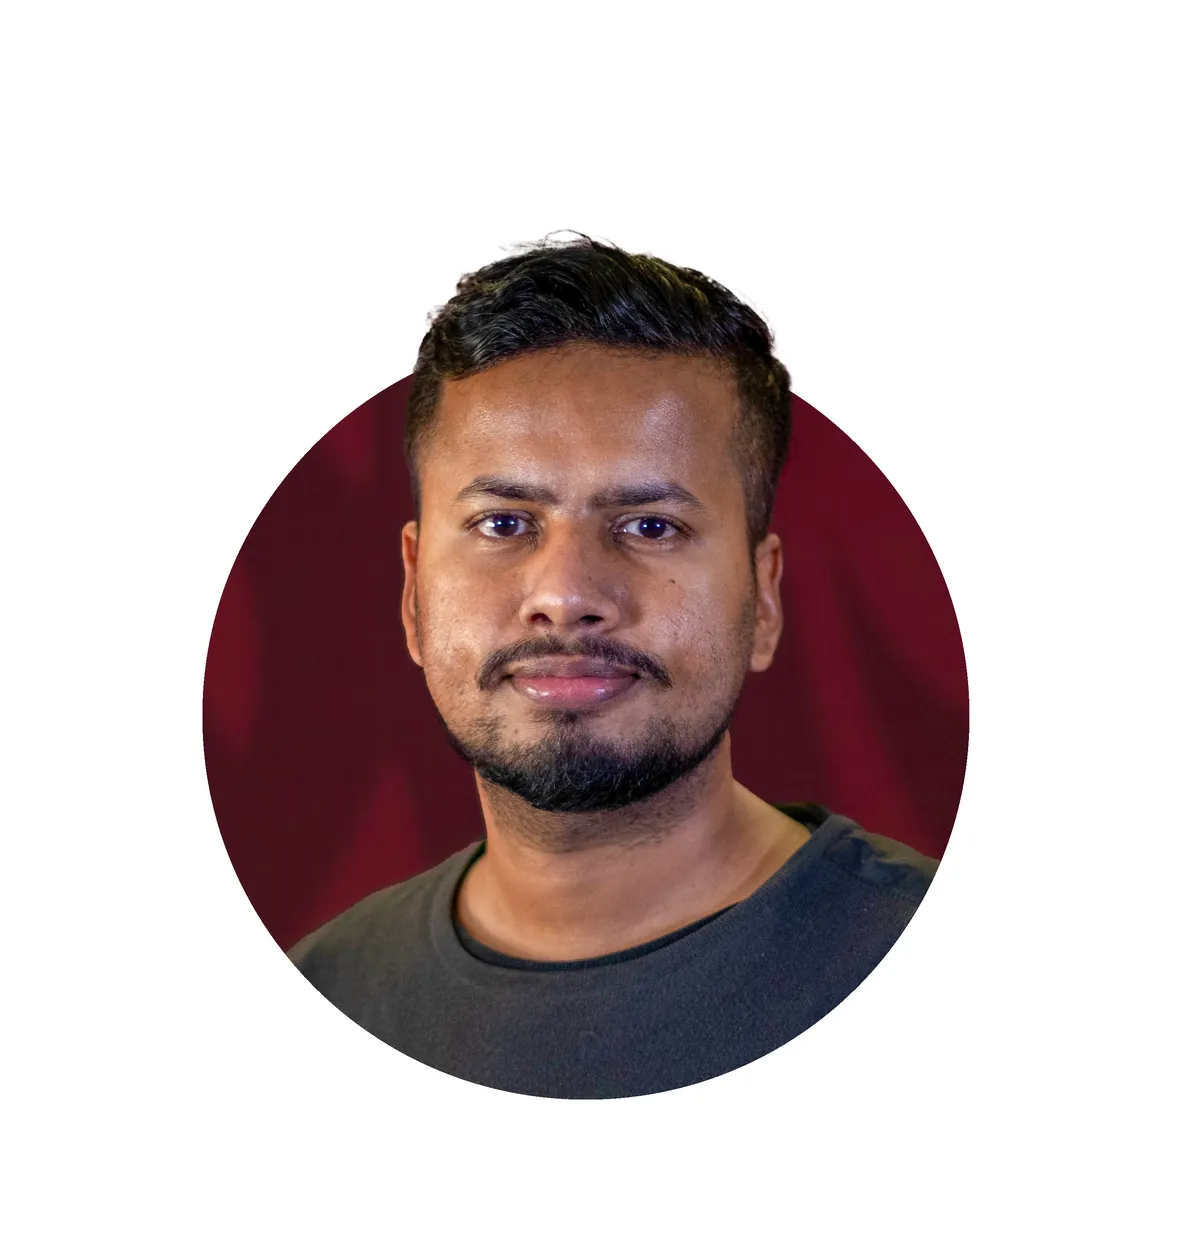
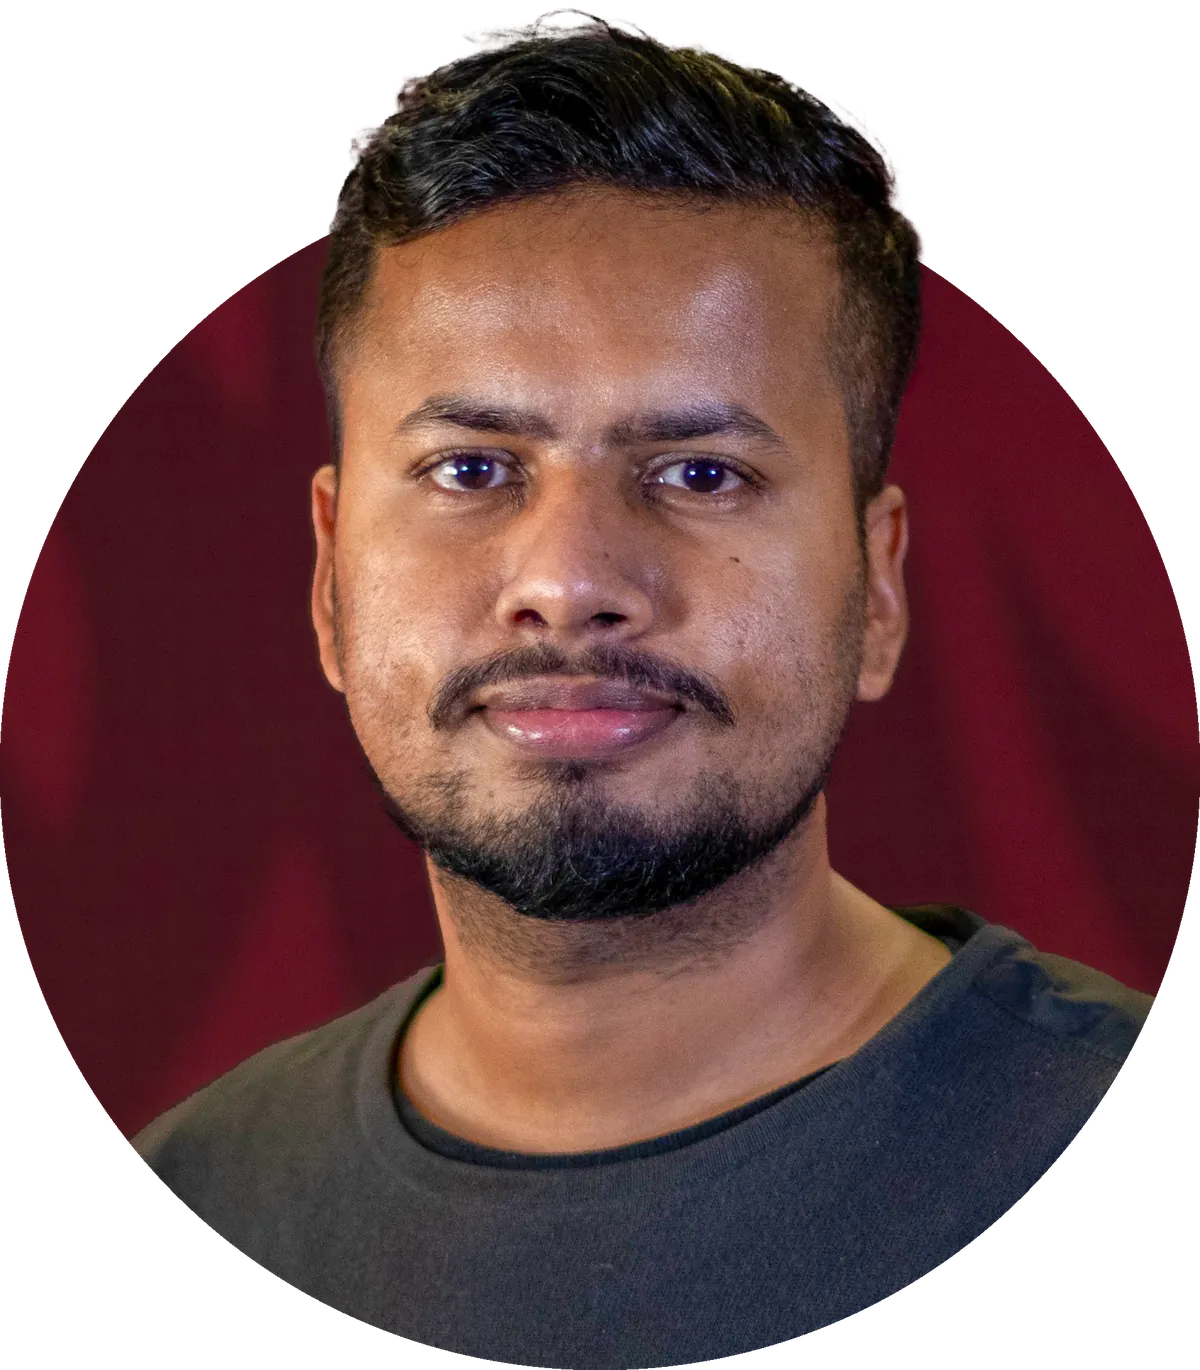
Transparent headshot and shorter team credits

diff --git a/docs/work/bussin-blocks/index.html b/docs/work/bussin-blocks/index.html
@@ -28,7 +28,7 @@
     <div class="hero-title"><p class="eyebrow">05 / 05</p><h1>The Bussin Blocks</h1><p>Connecting city and neighborhood through a loop walk</p></div>
   </header>
   <section class="project-intro">
-    <dl class="meta"><div><dt>Type</dt><dd>Adaptive reuse and urban design</dd></div><div><dt>Location</dt><dd>Post Falls, ID</dd></div><div><dt>Year</dt><dd>2025</dd></div><div><dt>Context</dt><dd>Graduate studio, WSU</dd></div><div><dt>Role</dt><dd>Co-designer. Shared project concept and block-by-block design; form generation diagrams, AIA COTE Top Ten diagram and all D5 renders</dd></div><div><dt>Team</dt><dd>Maxwell T. Kyle (co-designer: site, demographic and history studies, housing and transportation user requirements, spatial program, regulatory review, Tally and scale estimates)</dd></div><div><dt>Tools</dt><dd>Revit, Rhino, D5 Render, AutoCAD, SketchUp, Photoshop, Illustrator, Tally, C.Scale</dd></div></dl>
+    <dl class="meta"><div><dt>Type</dt><dd>Adaptive reuse and urban design</dd></div><div><dt>Location</dt><dd>Post Falls, ID</dd></div><div><dt>Year</dt><dd>2025</dd></div><div><dt>Context</dt><dd>Graduate studio, WSU</dd></div><div><dt>Role</dt><dd>Co-designer. Shared project concept and block-by-block design; form generation diagrams, AIA COTE Top Ten diagram and all D5 renders</dd></div><div><dt>Team</dt><dd>Maxwell T. Kyle (co-designer)</dd></div><div><dt>Tools</dt><dd>Revit, Rhino, D5 Render, AutoCAD, SketchUp, Photoshop, Illustrator, Tally, C.Scale</dd></div></dl>
     <div class="intro-text"><p>The Bussin Blocks redevelop a 19-acre brownfield, a former veneer mill, into Post Falls&#x27; first walkable downtown. Surrounding streets extend into the site and set a block size small enough for real porosity.</p><p>A walking loop ties four nodes together: the preserved mill silo, the Centennial Trail, the neighborhood edge and a city gateway. Housing, a transit center in the reused mill structure, a museum, a hotel and a seasonal ice rink line the route.</p><div class="facts"><div class="fact"><span>Site</span><strong>19 acres</strong></div><div class="fact"><span>Strategy</span><strong>Adaptive reuse of mill structures</strong></div><div class="fact"><span>Framework</span><strong>AIA COTE Top Ten</strong></div></div></div>
   </section>
   <section class="chapter reveal"><div class="chapter-text"><h2>Concept</h2><p>Four nodes create the loop journey. Six steps take the site from reused structures and a continued street grid to courtyard blocks with heights tuned to orientation.</p></div><div class="chapter-figs"><figure class="zoom"><img class="" src="../../assets/img/bussin-blocks/concept-1200.webp" srcset="../../assets/img/bussin-blocks/concept-1200.webp 1200w, ../../assets/img/bussin-blocks/concept-2400.webp 2400w" sizes="(min-width: 1400px) 1400px, 100vw" width="3200" height="1600" alt="Nodes and form generation" loading="lazy" decoding="async"><figcaption>Nodes and form generation</figcaption></figure></div></section><section class="chapter reveal"><div class="chapter-text"><h2>Masterplan</h2></div><div class="chapter-figs"><figure class="zoom"><img class="" src="../../assets/img/bussin-blocks/masterplan-1200.webp" srcset="../../assets/img/bussin-blocks/masterplan-1200.webp 1200w, ../../assets/img/bussin-blocks/masterplan-2400.webp 2400w" sizes="(min-width: 1400px) 1400px, 100vw" width="3200" height="1600" alt="Masterplan axonometric" loading="lazy" decoding="async"><figcaption>Masterplan axonometric</figcaption></figure></div></section><section class="chapter reveal"><div class="chapter-text"><h2>Sustainability</h2><p>The mixed-use apartments are tested against the AIA COTE Top Ten: PV-ready roofs, rainwater collection, heat recovery DOAS, VRF heat pumps and rooftop beehives.</p></div><div class="chapter-figs"><figure class="zoom"><img class="" src="../../assets/img/bussin-blocks/cote-1200.webp" srcset="../../assets/img/bussin-blocks/cote-1200.webp 1200w, ../../assets/img/bussin-blocks/cote-2400.webp 2400w" sizes="(min-width: 1400px) 1400px, 100vw" width="3200" height="1600" alt="AIA COTE Top Ten measures" loading="lazy" decoding="async"><figcaption>AIA COTE Top Ten measures</figcaption></figure></div></section><section class="chapter reveal"><div class="chapter-text"><h2>Views</h2></div><div class="chapter-figs"><figure class="zoom"><img class="" src="../../assets/img/bussin-blocks/silo-boulevard-1200.webp" srcset="../../assets/img/bussin-blocks/silo-boulevard-1200.webp 1200w, ../../assets/img/bussin-blocks/silo-boulevard-2400.webp 2400w" sizes="(min-width: 1400px) 1400px, 100vw" width="3840" height="2160" alt="The Silo Boulevard" loading="lazy" decoding="async"><figcaption>The Silo Boulevard</figcaption></figure><figure class="zoom"><img class="" src="../../assets/img/bussin-blocks/idaho-road-entry-1200.webp" srcset="../../assets/img/bussin-blocks/idaho-road-entry-1200.webp 1200w, ../../assets/img/bussin-blocks/idaho-road-entry-2400.webp 2400w" sizes="(min-width: 1400px) 1400px, 100vw" width="3840" height="2160" alt="Idaho Road entry" loading="lazy" decoding="async"><figcaption>Idaho Road entry</figcaption></figure><figure class="zoom"><img class="" src="../../assets/img/bussin-blocks/boarding-zone-1200.webp" srcset="../../assets/img/bussin-blocks/boarding-zone-1200.webp 1200w, ../../assets/img/bussin-blocks/boarding-zone-2400.webp 2400w" sizes="(min-width: 1400px) 1400px, 100vw" width="3840" height="2160" alt="Transit center boarding zone in the reused mill frame" loading="lazy" decoding="async"><figcaption>Transit center boarding zone in the reused mill frame</figcaption></figure><figure class="zoom"><img class="" src="../../assets/img/bussin-blocks/waiting-hall-1200.webp" srcset="../../assets/img/bussin-blocks/waiting-hall-1200.webp 1200w, ../../assets/img/bussin-blocks/waiting-hall-2400.webp 2400w" sizes="(min-width: 1400px) 1400px, 100vw" width="3840" height="2160" alt="Transit center waiting hall" loading="lazy" decoding="async"><figcaption>Transit center waiting hall</figcaption></figure></div></section>

diff --git a/docs/about/index.html b/docs/about/index.html
@@ -23,7 +23,7 @@
 </header>
 <main>
 <section class="about">
-  <div class="about-photo reveal"><img class="" src="../assets/img/about/headshot-1200.webp" srcset="../assets/img/about/headshot-1200.webp 1200w, ../assets/img/about/headshot-2400.webp 2400w" sizes="(min-width: 900px) 30vw, 60vw" width="2986" height="3082" alt="Md. Rakib Hasan" fetchpriority="high" decoding="async"></div>
+  <div class="about-photo reveal"><img class="" src="../assets/img/about/headshot-1200.webp" srcset="../assets/img/about/headshot-1200.webp 1200w, ../assets/img/about/headshot-2400.webp 2400w" sizes="(min-width: 900px) 30vw, 60vw" width="1908" height="2179" alt="Md. Rakib Hasan" fetchpriority="high" decoding="async"></div>
   <div class="about-text">
     <p class="eyebrow">About</p>
     <h1>Md. Rakib Hasan</h1>

diff --git a/docs/assets/css/style.css b/docs/assets/css/style.css
@@ -137,7 +137,7 @@ td { padding: .7rem .75rem .7rem 0; border-bottom: 1px solid var(--line); }
 /* About */
 .about { max-width: var(--max); margin: 0 auto; padding: clamp(3rem, 10vw, 8rem) var(--pad) 4rem; display: grid; gap: clamp(2rem, 6vw, 5rem); align-items: start; }
 @media (min-width: 900px) { .about { grid-template-columns: 1fr 1.6fr; } }
-.about-photo img { border-radius: 50%; width: min(100%, 420px); aspect-ratio: 1; object-fit: cover; }
+.about-photo img { width: min(100%, 420px); height: auto; }
 .about-text h1 { font-size: clamp(2.6rem, 6vw, 5rem); margin-bottom: 2rem; }
 .about-text p { font-size: 1.15rem; max-width: 56ch; }
 .cv { max-width: var(--max); margin: 0 auto; padding: 0 var(--pad) clamp(4rem, 10vw, 8rem); display: grid; gap: 3rem; }

diff --git a/tools/prepare_images.py b/tools/prepare_images.py
@@ -17,6 +17,8 @@ PDF = r"P:\01. Portfolio\2602 Portfolio\260226 Portfolio.pdf"
 OUT = os.path.join(ROOT, "docs", "assets", "img")
 MANIFEST = os.path.join(ROOT, "content", "images.json")
 WIDTHS = (1200, 2400)
+# transparent images to trim to their visible pixels (headshot circle has empty margins)
+CROP_TO_CONTENT = {"Headshot.psd"}
 
 # project -> list of (output name, source). Source is a Links filename or "pdf:<page>".
 IMAGES = {
@@ -98,6 +100,8 @@ def load(src, doc):
     im = Image.open(os.path.join(LINKS, src))
     if im.mode in ("RGBA", "LA", "P"):
         im = im.convert("RGBA")
+        if src in CROP_TO_CONTENT:
+            return im.crop(im.split()[-1].getbbox())  # keep transparency, no white fill
         bg = Image.new("RGB", im.size, "white")
         bg.paste(im, mask=im.split()[-1])
         return bg
